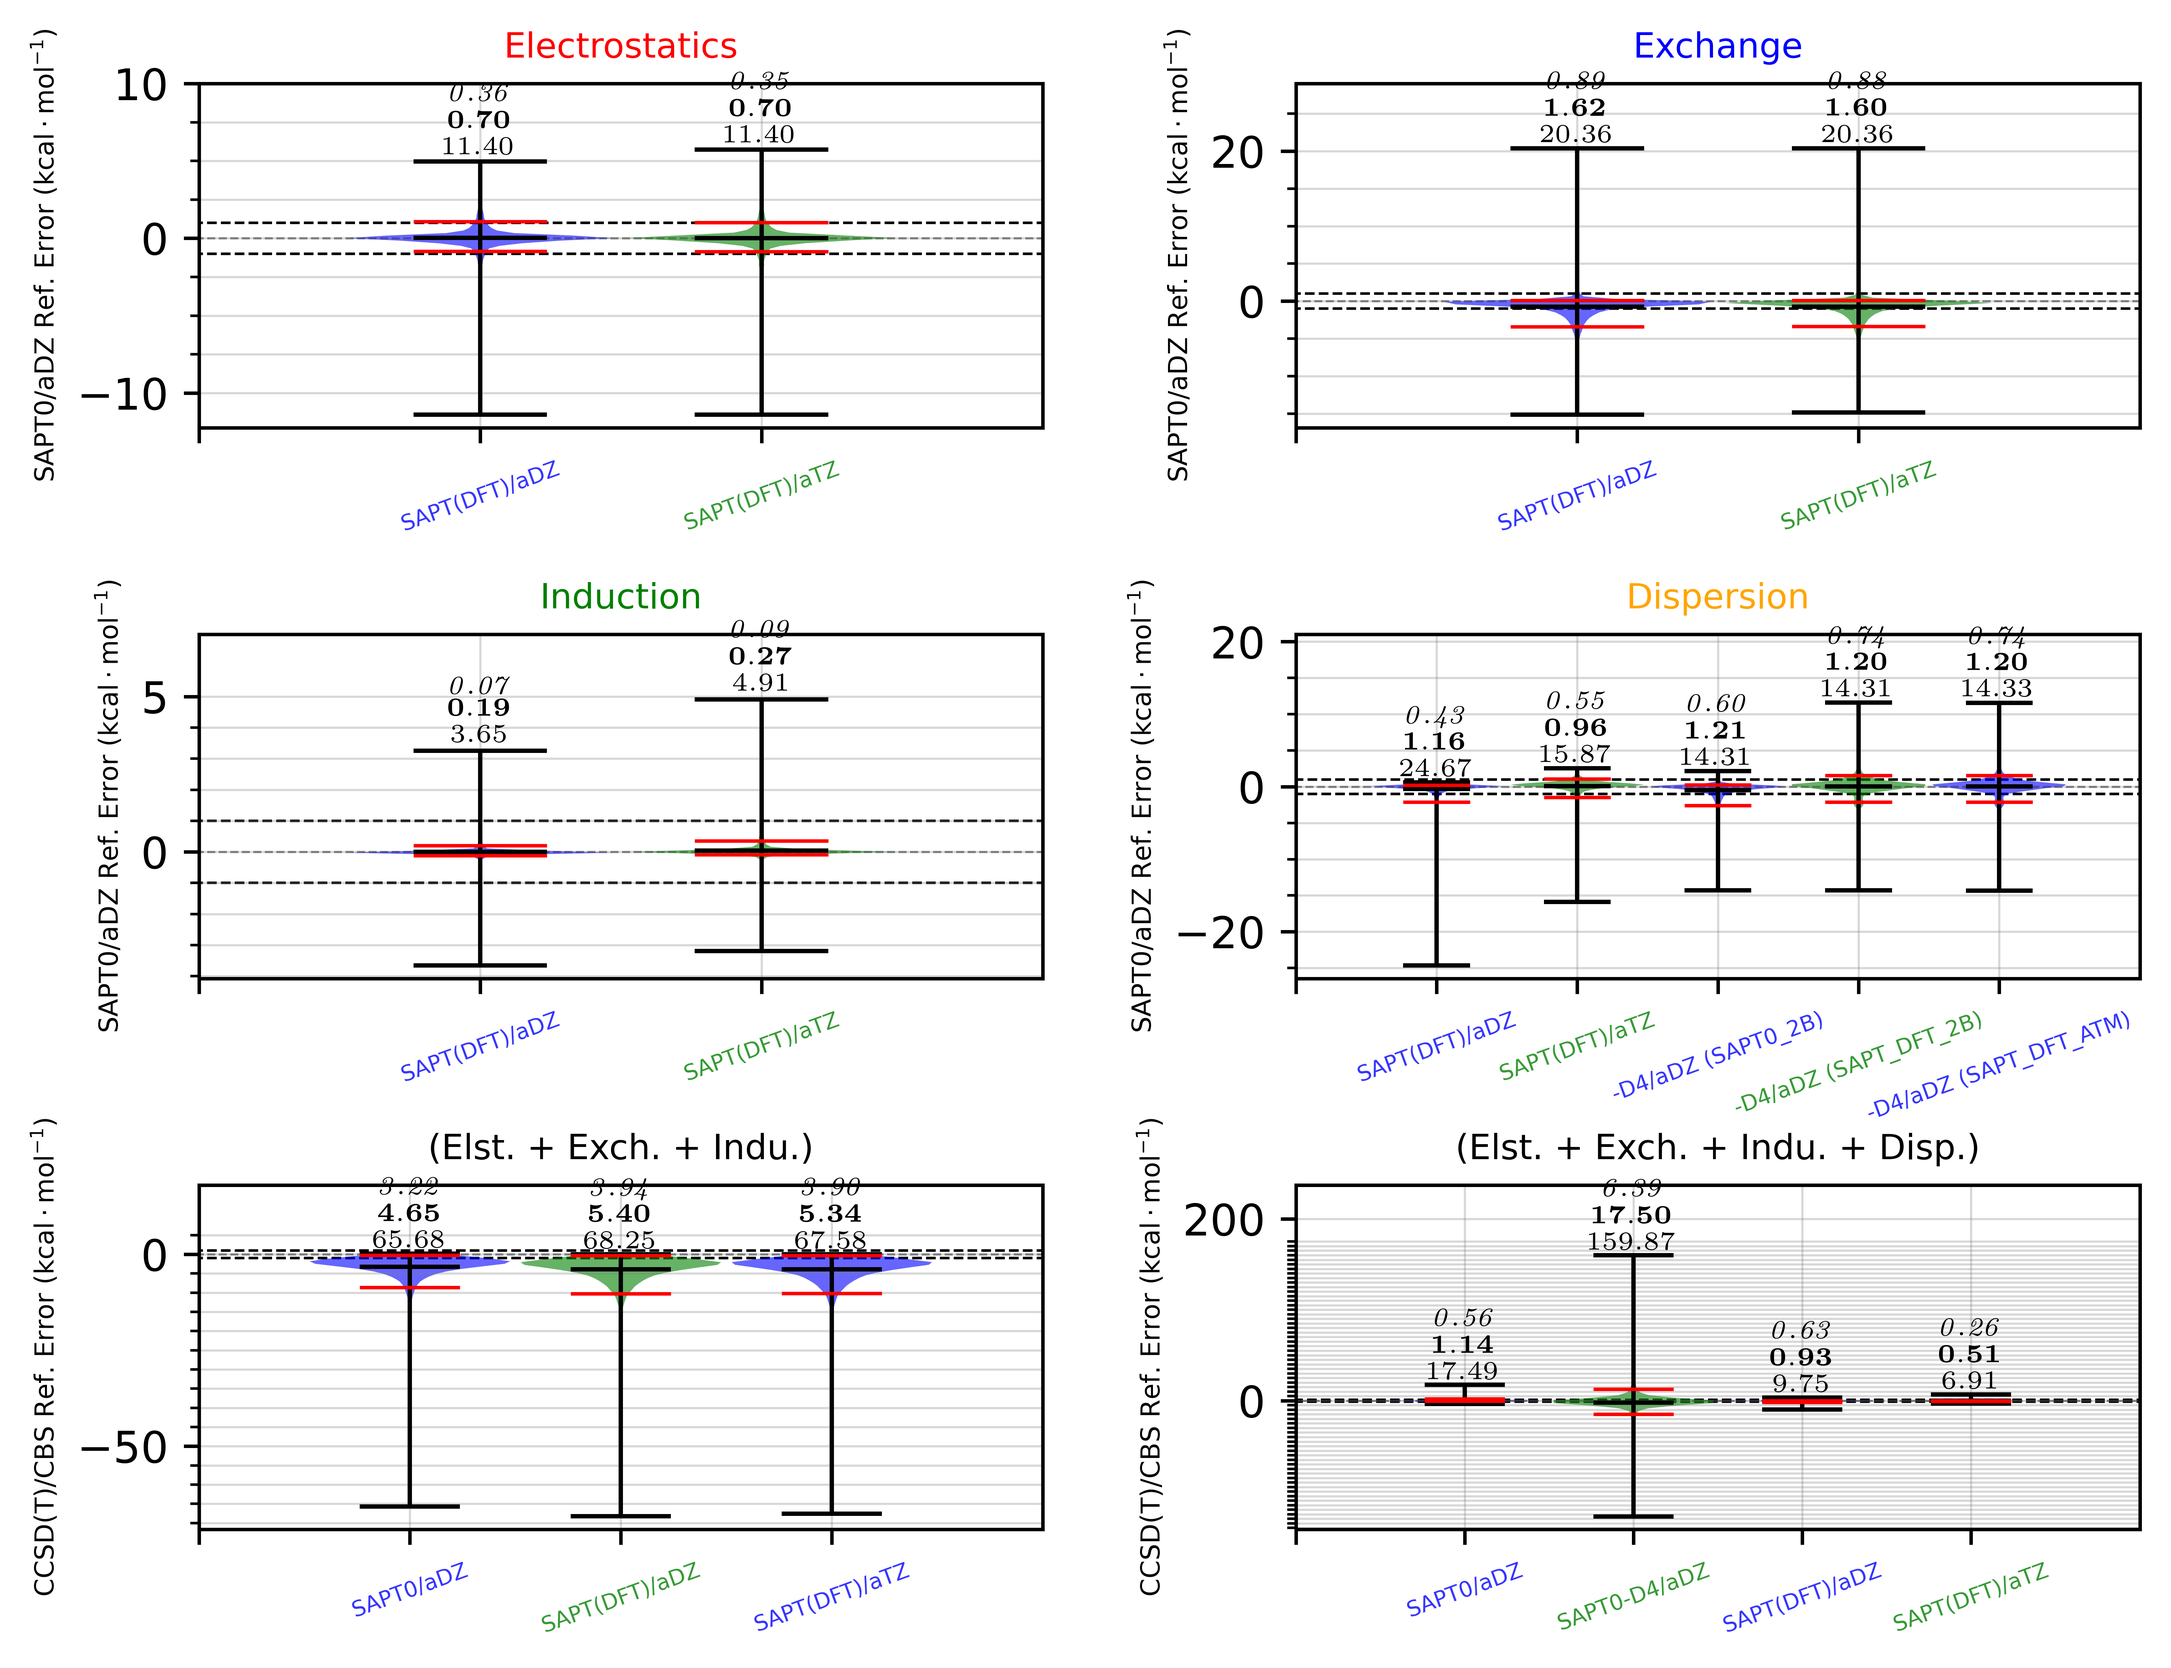
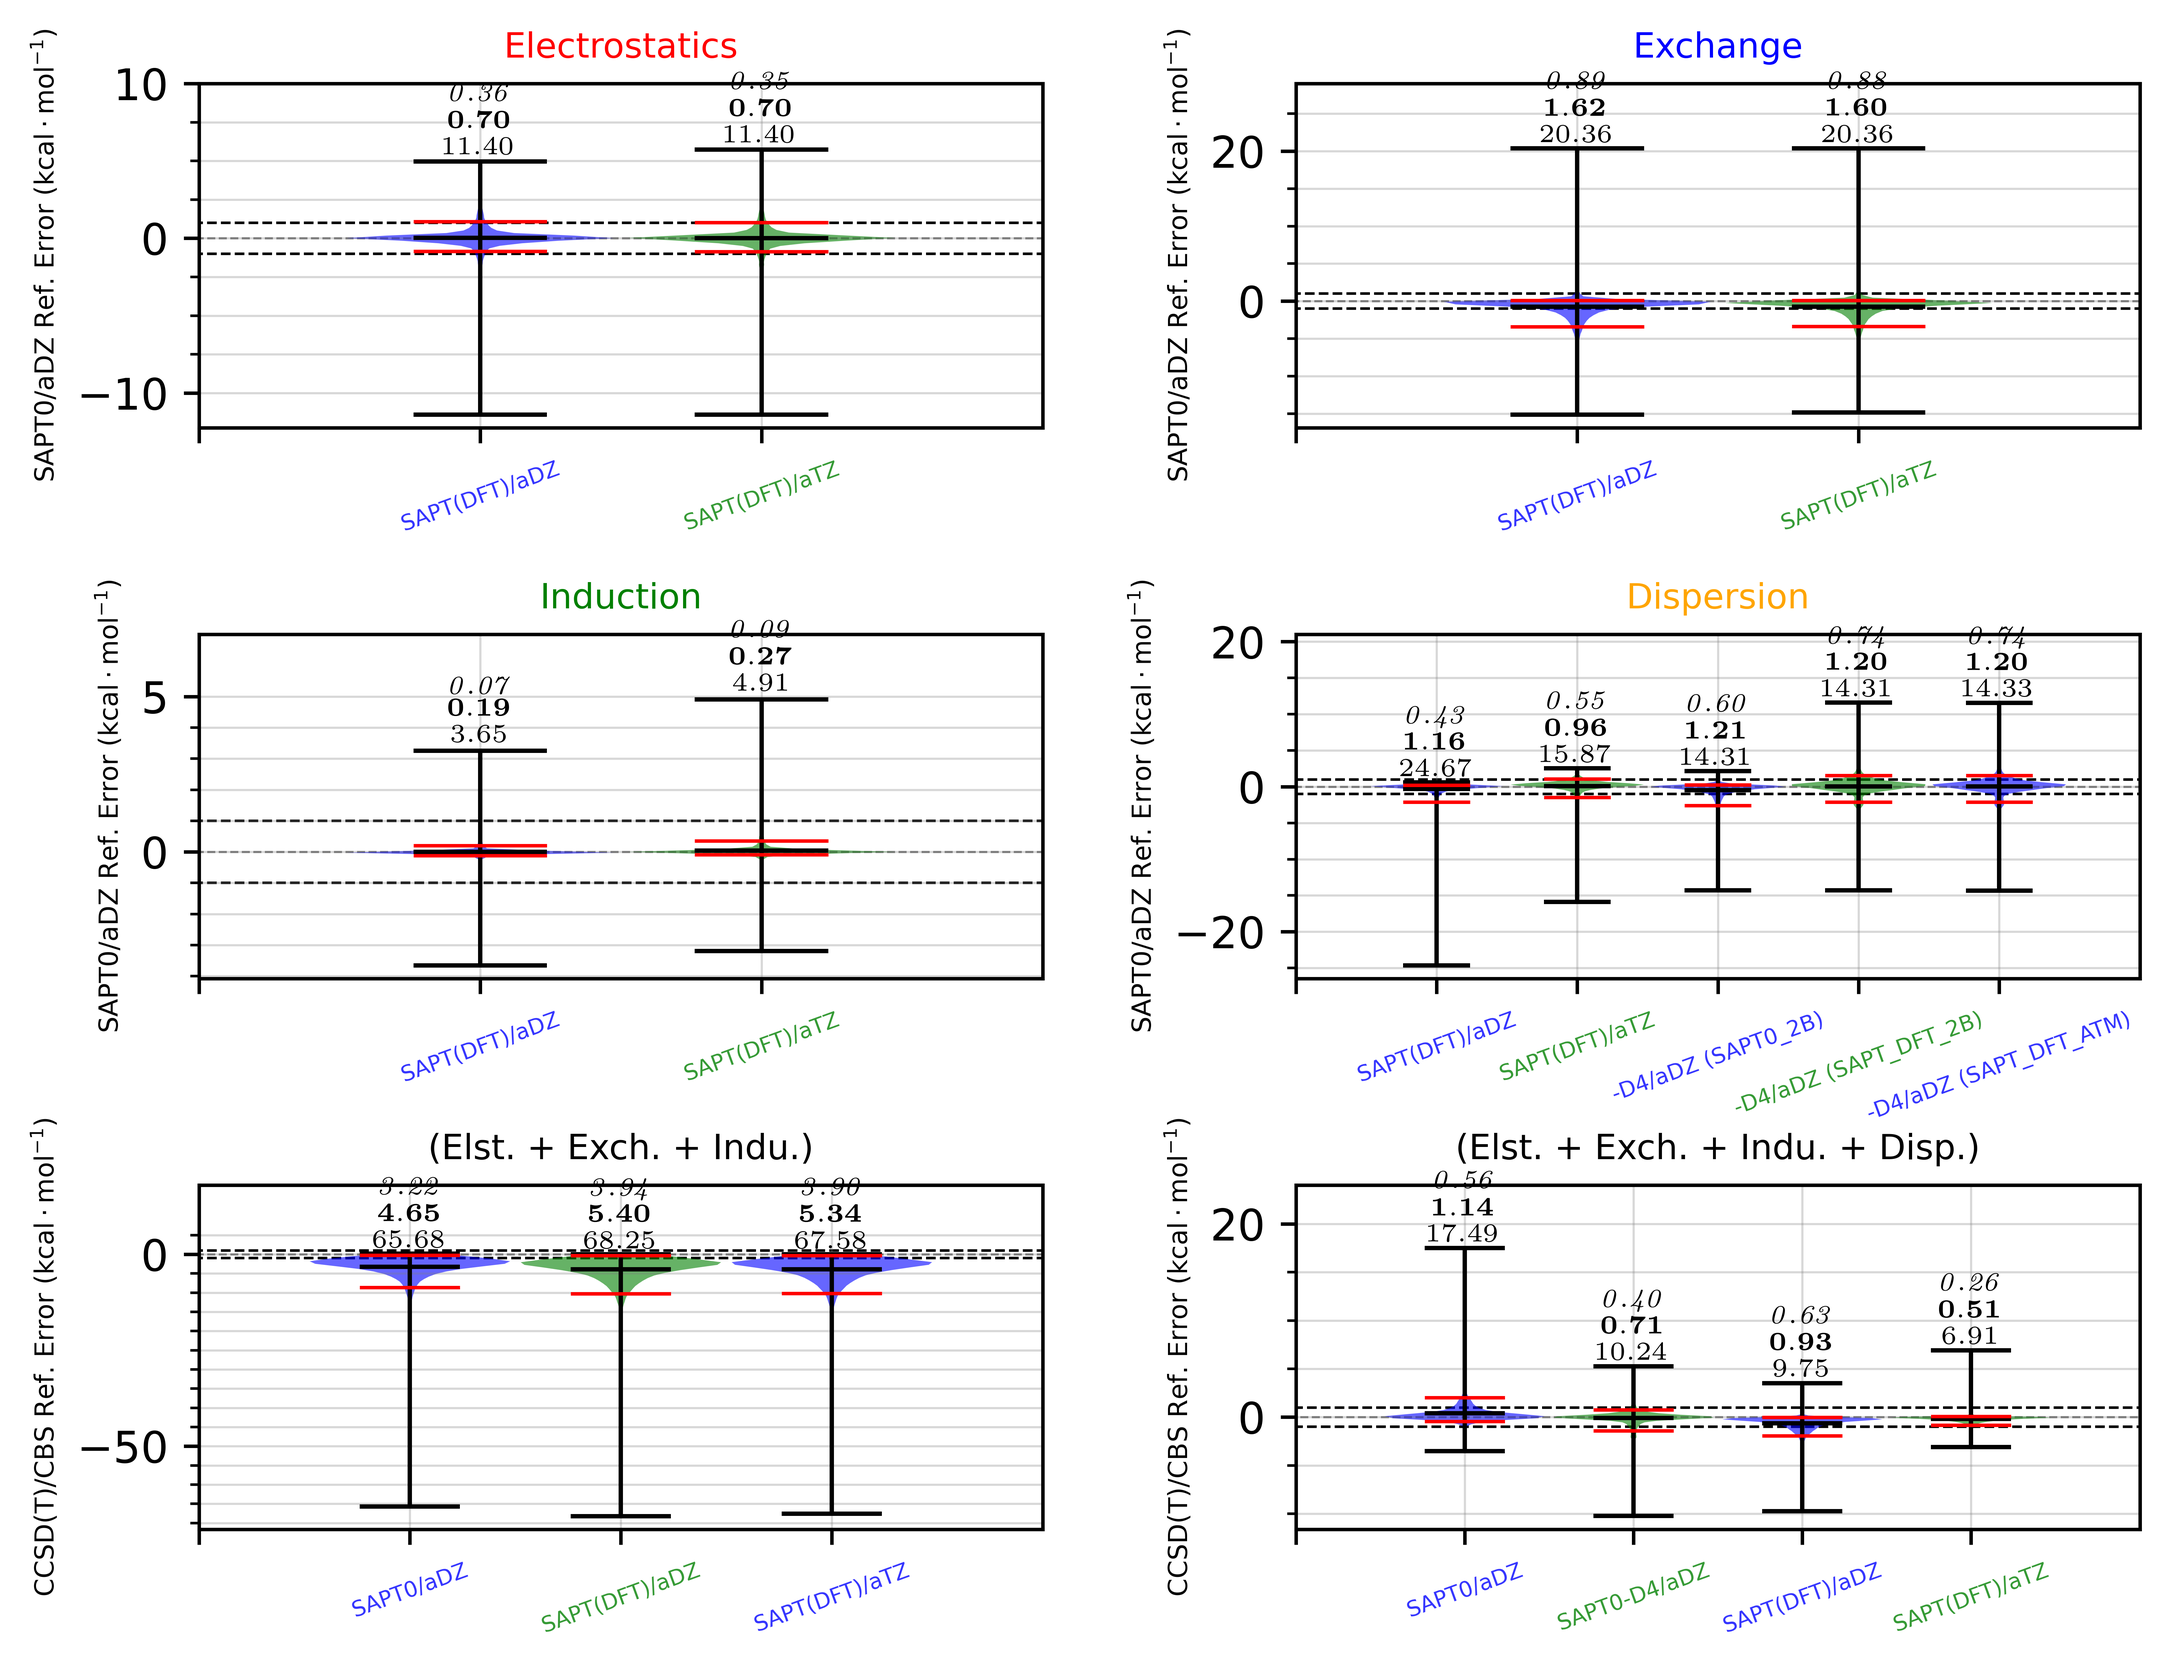
plots

Changed region(s): [[0.5295, 0.6852, 0.9967, 0.9343]]

diff --git a/src/plotting.py b/src/plotting.py
@@ -860,6 +860,9 @@ def plotting_setup_dft(
         print(df.columns.values)
         # df = compute_d4_from_opt_params(df)
         # Need to get components
+        df['SAPT0_adz_d4'] = df.apply(
+            lambda x: x["SAPT0_adz_3_IE"] + x["-D4 (SAPT0_adz_3_IE)"], axis=1
+        )
         df["SAPT0_adz_total"] = df.apply(lambda x: x["SAPT0_adz"][0], axis=1)
         df["SAPT0_adz_elst"] = df.apply(lambda x: x["SAPT0_adz"][1], axis=1)
         df["SAPT0_adz_exch"] = df.apply(lambda x: x["SAPT0_adz"][2], axis=1)
@@ -1383,7 +1386,7 @@ def plot_violin_SAPT0_DFT_components(
         "reference": ["CCSD(T)/CBS Ref.", "Benchmark"],
         "vals": {
             "SAPT0/aDZ": "SAPT0_adz_total",
-            "SAPT0-D4/aDZ": "SAPT0_adz_3_IE_d4_diff",
+            "SAPT0-D4/aDZ": "SAPT0_adz_d4",
             "SAPT(DFT)/aDZ": "SAPT_DFT_adz_total",
             "SAPT(DFT)/aTZ": "SAPT_DFT_atz_total",
         },

diff --git a/plot_saptdft.py b/plot_saptdft.py
@@ -14,7 +14,7 @@ def main():
     print('Read df from ./plots/basis_study.pkl')
     src.plotting.plotting_setup_dft(
         (df, df_name),
-        build_df=False,
+        build_df=True,
     )
     return
 
